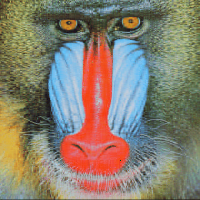
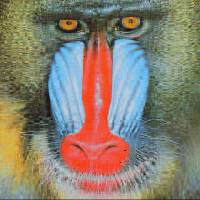
fix bug with SVD type conversion

diff --git a/complex_svd.py b/complex_svd.py
@@ -3,7 +3,7 @@ from PIL import Image
 
 FILENAME = "4.2.03.png"
 RANK_APPROXIMATIONS = [1, 2, 3, 4, 5]
-BLOCK = (20, 20)
+BLOCK = (25, 25)
 
 
 image_original = np.array(Image.open(FILENAME).convert("RGB"))
@@ -23,5 +23,7 @@ for approx in RANK_APPROXIMATIONS:
         for j in range(3):
             u, s, v = block_svds[i][j]
             u, s, v = u.astype('float16'), s.astype('float16'), v.astype('float16') # correctly simulate 16bit precision
-            image[x:x+BLOCK[0], y:y+BLOCK[1], j] = np.dot(u[:, :approx] * s[:approx], v[:approx, :])
+            temp = np.dot(u[:, :approx] * s[:approx], v[:approx, :])
+            temp[temp < 0] = 0
+            image[x:x+BLOCK[0], y:y+BLOCK[1], j] = temp
     Image.fromarray(image).save("output/complex_svd/rank_%d_block_%d_approx.png" % (approx, BLOCK[0]))

diff --git a/simple_svd.py b/simple_svd.py
@@ -15,5 +15,7 @@ for approx in RANK_APPROXIMATIONS:
     for i in range(3):
         u, s, v = channels[i]
         u, s, v = u.astype('float16'), s.astype('float16'), v.astype('float16') # correctly simulate 16bit precision
-        image[:, :, i] = np.dot(u[:, :approx] * s[:approx], v[:approx, :])
+        temp = np.dot(u[:, :approx] * s[:approx], v[:approx, :])
+        temp[temp < 0] = 0
+        image[:, :, i] = temp
     Image.fromarray(image).save("output/simple_svd/rank_%d_approx.png" % approx)
